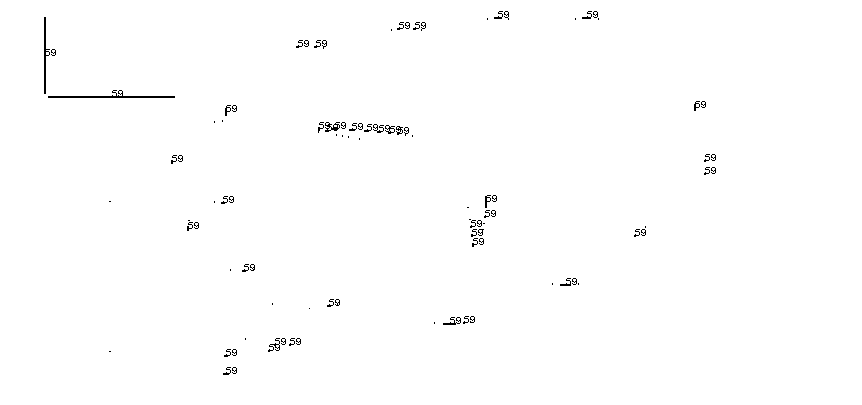
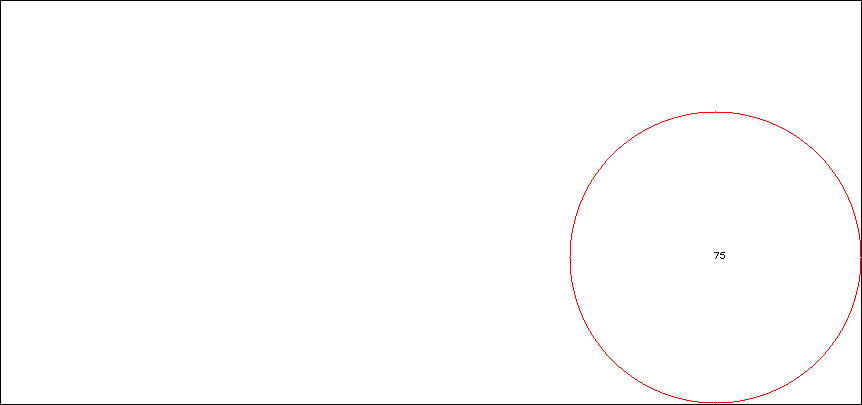
jit, tqdm

diff --git a/libs/imageProcessing.py b/libs/imageProcessing.py
@@ -8,6 +8,10 @@ import cv2
 import numpy as np
 import imutils
 from scipy.spatial import distance as dist
+import multiprocessing, parmap
+import numba
+from tqdm import trange
+import sys
 
 
 # 색 리스트 반환 함수 (Minku koo)
@@ -96,9 +100,8 @@ def label(image, contour, lab, colorNames):
             
     return colorNames[minDist[1]]
 
-
-def drawLine(colorMap, value = 1):
-    map = []
+@numba.jit
+def drawLine2(colorMap, value = 1):
     tempMap = np.zeros(colorMap.shape) + 255
     count = 0
 
@@ -203,6 +206,27 @@ def getImgLabelFromImage(colors, img):
     return img_lab, lab
 
 
+def doPointPolygonMulti(raw_dist, contour, thresh):
+    thresh = np.array(thresh)
+    print(f'i len : {thresh.shape[0]}\nj len : {thresh.shape[1]}')
+    for i in range(thresh.shape[0]):
+        for j in range(thresh.shape[1]):
+            raw_dist[i,j] = cv2.pointPolygonTest(contour, (j,i), True)
+
+
+# contour 내심원 반지름이랑 가운데 좌표 반환 함수
+def getRadiusCenterCircle2(contour, thresh):
+    num_cores = multiprocessing.cpu_count() # cpu core 개수
+
+    # Calculate the distances to the contour
+    raw_dist = np.empty(thresh.shape, dtype=np.float32)
+    splited_thresh =  np.array_split(thresh, num_cores)
+
+    results = parmap.map(doPointPolygonMulti, raw_dist, contour, splited_thresh, pm_pbar=True, pm_processes=num_cores)
+            
+    minVal, maxVal, _, center = cv2.minMaxLoc(results)
+    return maxVal, center
+    
 # contour 내심원 반지름이랑 가운데 좌표 반환 함수
 def getRadiusCenterCircle(contour, thresh):
     # Calculate the distances to the contour
@@ -216,10 +240,12 @@ def getRadiusCenterCircle(contour, thresh):
 
 
 
+@numba.jit(forceobj = True)
 def setColorNumberFromContours(img, thresh, contours, hierarchy, img_lab, lab, colorNames):
+
     # 컨투어 별로 체크
-    for idx in range(len(contours)):
-        print(f'contours..... {idx} / {len(contours)} \t {round(idx / len(contours)*100, 1)}%', end='\r')
+    for idx in trange(len(contours), file=sys.stdout, desc='find circle in contour'):
+        # print(f'contours..... {idx} / {len(contours)} \t {round(idx / len(contours)*100, 1)}%', end='\r')
         contour = contours[idx]
         contour_org = contour.copy()
         child_idx = hierarchy[0][idx][2]
@@ -228,7 +254,7 @@ def setColorNumberFromContours(img, thresh, contours, hierarchy, img_lab, lab, c
         if child_idx != -1:
             contour = np.concatenate( (contour, contours[child_idx]) )
 
-        print(f'contour len : {len(contour)}')
+        # print(f'contour len : {len(contour)}')
 
         # 내심원 반지름, 좌표 계산
         radius, center = getRadiusCenterCircle(contour, thresh)
@@ -240,6 +266,7 @@ def setColorNumberFromContours(img, thresh, contours, hierarchy, img_lab, lab, c
 
             #    컨투어를 그림
             cv2.drawContours(img, [contour_org], -1, (0, 0, 0), 1)
+            cv2.circle(img, center, int(radius), (0,0,255), 1, cv2.LINE_8, 0)
 
             # 컨투어 내부에 검출된 색을 표시
             color_text = label(img_lab, contour, lab, colorNames)
@@ -252,4 +279,5 @@ def setColorNumberFromContours(img, thresh, contours, hierarchy, img_lab, lab, c
             # contour 1개씩 그려지는거 확인
             # cv2.imshow('draw_contour', img)
             # cv2.waitKey(0)
+
     return img

diff --git a/web/views.py b/web/views.py
@@ -13,6 +13,7 @@ import os
 from libs.brush import Brush
 from libs.utils import *
 from libs.imageProcessing import *
+from libs.drawLine import DrawLine
 
 views = Blueprint("server", __name__)
 
@@ -56,7 +57,8 @@ def convert():
     image = reducial(img, 64)
 
     # 선 그리기
-    image2 = drawLine(image)
+    drawLineTool = DrawLine(image)
+    image2 = drawLineTool.getDrawLine()
 
 
     image2 = cv2.convertScaleAbs(image2)
@@ -154,7 +156,6 @@ F4A460,DAA520,
     # img = image.copy()
 
     # contour, hierarchy 추출
-
     contours, hierarchy, thresh = getContoursFromImage(img)
 
     # image_with_contour = np.zeros(img.shape, np.uint8)
